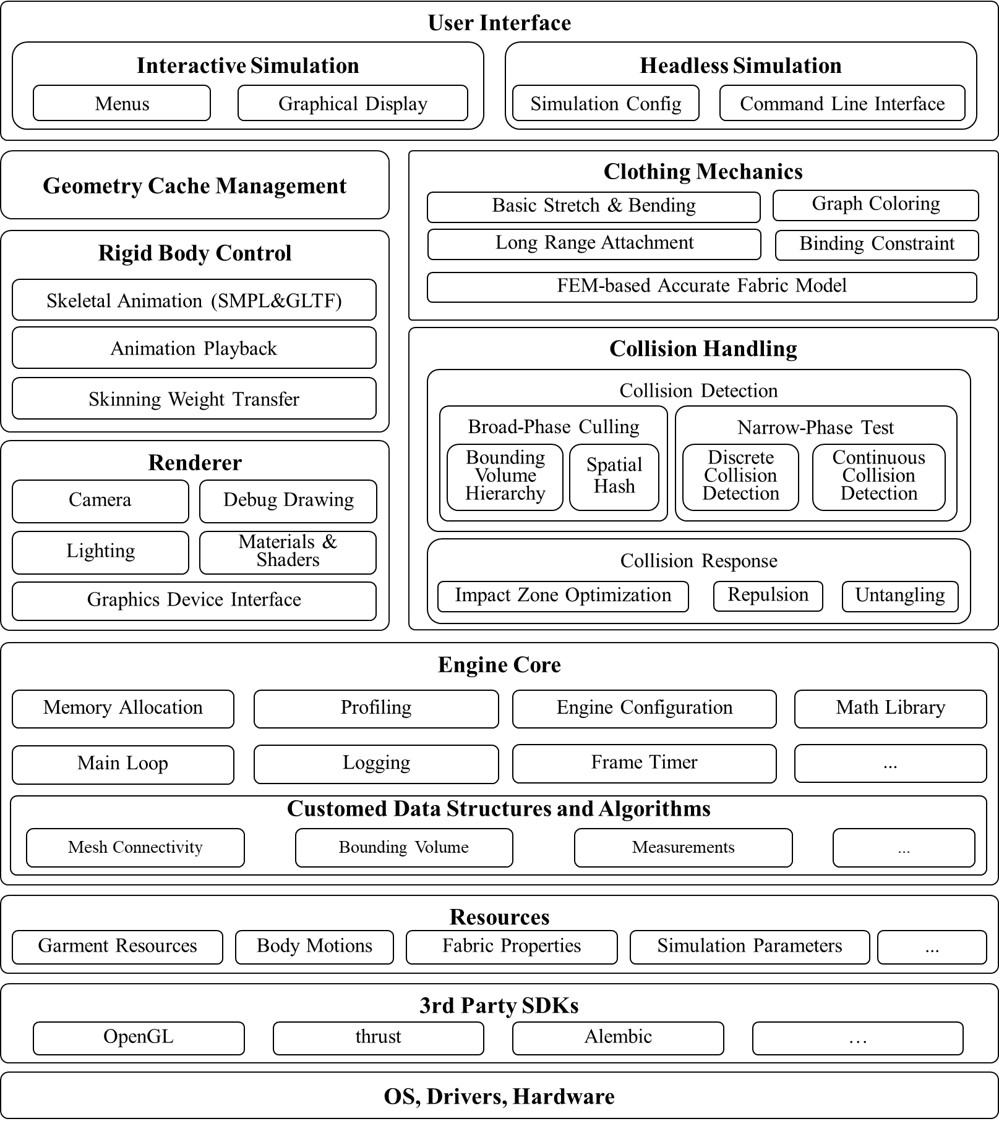
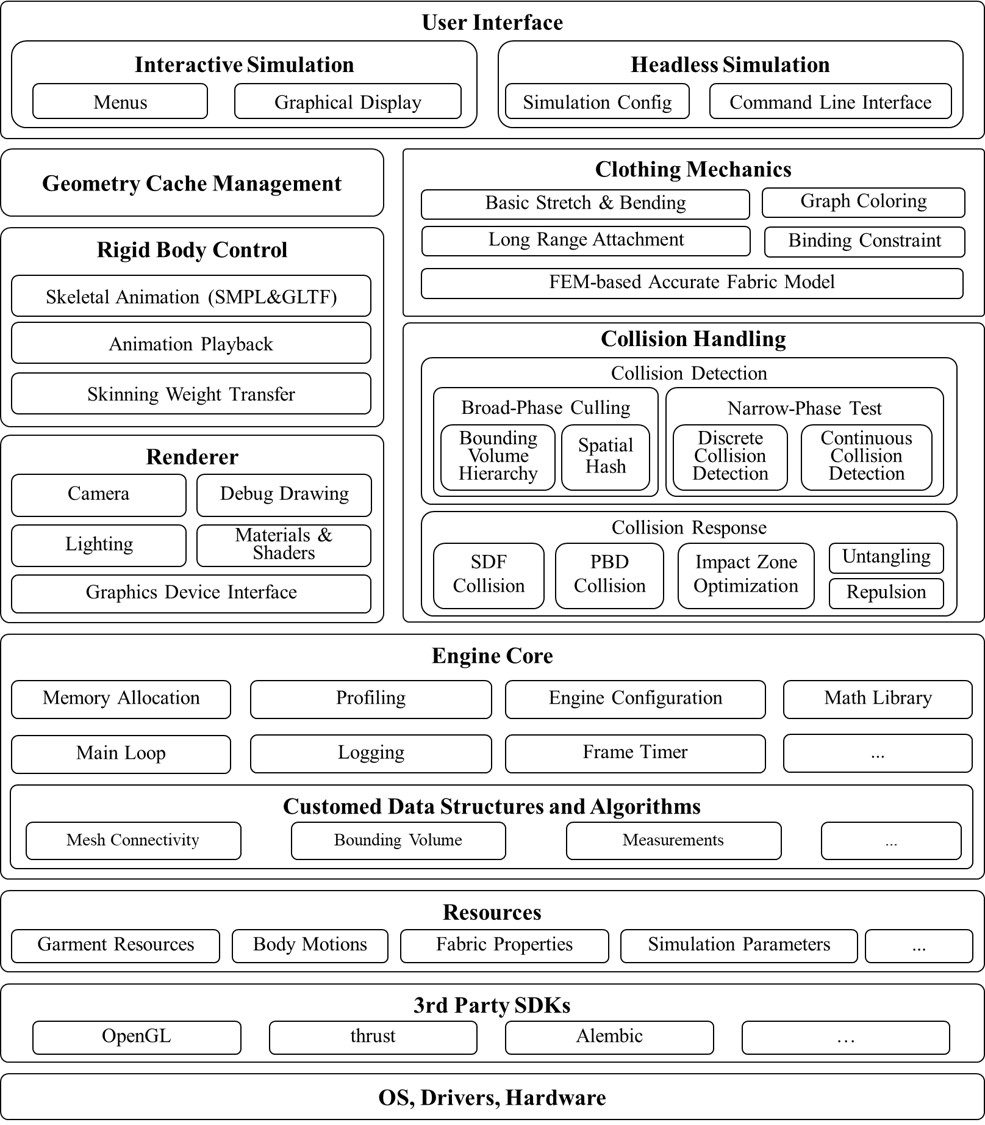
[docs] fix typos

Changed region(s): [[0.0, 0.0, 1.0, 0.9964], [0.0, 0.0311, 0.0305, 0.0623]]

diff --git a/docs/en/source/getting_started/simulation_config_example.md b/docs/en/source/getting_started/simulation_config_example.md
@@ -61,8 +61,8 @@ A simulation config should follow the structure as shown below:
 
 |PARAM|FIELD|TYPE|DEFAULT VALUE|DESCRIPTION|
 | :-----: | ----- | ----- | ----- | ----- |
-|CLOTHES|Required|vector\<CLOTH\>|\-|Clothes to be added to the scene.|
-|OBSTACLES|Required|vector\<OBSTACLE\>|\-|Obstacles to be added to the scene.|
+|CLOTHES|Required|vector<CLOTH\>|\-|Clothes to be added to the scene.|
+|OBSTACLES|Required|vector<OBSTACLE\>|\-|Obstacles to be added to the scene.|
 |NUM\_FRAMES|Optional|int|100|Number of frames to simulate.|
 
 in which the CLOTH and OBSTACLE are defined as follows:
@@ -75,7 +75,7 @@ in which the CLOTH and OBSTACLE are defined as follows:
 |POSITION|Optional|vec3|(0, 0, 0)|Position of the cloth in world space.|
 |ROTATION|Optional|vec3|(0, 0, 0)|Euler rotation of the cloth in world space.|
 |SCALE|Optional|vec3|(1, 1, 1)|Scale of the cloth in world space.|
-|ATTACHED_INDICES|Optional|vector\<int\>|[]|Indices of vertices to be fixed during the simulation.|
+|ATTACHED_INDICES|Optional|vector<int\>|[]|Indices of vertices to be fixed during the simulation.|
 
 - OBSTACLE:
 

diff --git a/docs/en/source/getting_started/technical_brief.md b/docs/en/source/getting_started/technical_brief.md
@@ -57,7 +57,7 @@ Resolving thousands of collisions that can readily occur can be prohibitively ex
 
   - ***Imminent Repulsion***: A DCD method that tries to prevent collisions from happening in the near future. Once two proximities are close enough, a positional update is applied to the cloth vertices to prevent the penetration. 
   
-  - ***Realized Repulsion***: Checks the states between current position and advanced position. Hard constraints will be added if there exists contact.
+  - ***PBD Repulsion***: Checks the states between current position and advanced position. Hard constraints will be added if there exists contact.
 
 Based on our observations, the repulsion step dramatically reduces the number of collisions, making the impact zone optimization tractable and efficient.
 
